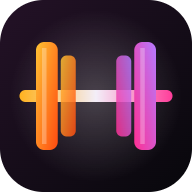
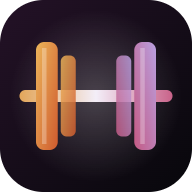
Couleurs plus douces, suppression des phrases d'accroche

Changed region(s): [[0.5938, 0.2188, 0.9062, 0.7812], [0.0938, 0.2188, 0.4062, 0.7812]]

diff --git a/style.css b/style.css
@@ -1,19 +1,19 @@
 :root{
-  --bg:#07070b;--bg2:#12121a;--card:rgba(255,255,255,.055);--card2:rgba(255,255,255,.09);
+  --bg:#08080c;--bg2:#12121a;--card:rgba(255,255,255,.055);--card2:rgba(255,255,255,.09);
   --line:rgba(255,255,255,.1);--tx:#f6f3f8;--mut:#9b97aa;--ok:#35e08a;--danger:#ff4d5e;
-  --a:#ff5b1f;--a2:#ffb21f;--grad:linear-gradient(135deg,var(--a),var(--a2));
+  --a:#d8693a;--a2:#e3a65a;--grad:linear-gradient(135deg,var(--a),var(--a2));
   --disp:"Bahnschrift","Avenir Next Condensed","sans-serif-condensed","Roboto Condensed","Arial Narrow",system-ui,sans-serif;
   --body:system-ui,-apple-system,"Segoe UI",Roboto,sans-serif;
   --sab:env(safe-area-inset-bottom,0px);--sat:env(safe-area-inset-top,0px);
   color-scheme:dark;
 }
-[data-theme=her]{--a:#ff3d9a;--a2:#a46bff}
+[data-theme=her]{--a:#c9638a;--a2:#9d86d0}
 *{box-sizing:border-box;-webkit-tap-highlight-color:transparent}
 html{background:var(--bg)}
 body{margin:0;min-height:100vh;color:var(--tx);font-family:var(--body);font-size:15px;line-height:1.4;
   background:
-    radial-gradient(900px 500px at -10% -8%,color-mix(in srgb,var(--a) 28%,transparent),transparent 60%),
-    radial-gradient(800px 520px at 110% 108%,color-mix(in srgb,var(--a2) 20%,transparent),transparent 60%),
+    radial-gradient(900px 500px at -10% -8%,color-mix(in srgb,var(--a) 17%,transparent),transparent 60%),
+    radial-gradient(800px 520px at 110% 108%,color-mix(in srgb,var(--a2) 11%,transparent),transparent 60%),
     var(--bg);
   background-attachment:fixed;overscroll-behavior-y:none;transition:background .4s}
 body::before{content:"";position:fixed;inset:0;pointer-events:none;opacity:.05;z-index:0;
@@ -45,13 +45,13 @@ nav{position:fixed;left:50%;transform:translateX(-50%);bottom:calc(10px + var(--
   border:1px solid var(--line);border-radius:24px;padding:6px;box-shadow:0 10px 40px rgba(0,0,0,.5)}
 nav button{flex:1;display:flex;flex-direction:column;align-items:center;gap:3px;padding:8px 0 6px;border-radius:18px;color:var(--mut);font-size:10.5px;font-weight:600;letter-spacing:.03em;transition:.2s}
 nav button svg{width:22px;height:22px;stroke:currentColor;fill:none;stroke-width:1.9;stroke-linecap:round;stroke-linejoin:round}
-nav button.on{color:#0a0a0f;background:var(--grad);box-shadow:0 4px 18px color-mix(in srgb,var(--a) 45%,transparent)}
+nav button.on{color:#0a0a0f;background:var(--grad);box-shadow:0 4px 14px color-mix(in srgb,var(--a) 28%,transparent)}
 
 /* cards & buttons */
 .card{background:var(--card);border:1px solid var(--line);border-radius:20px;padding:16px;margin-bottom:12px}
 .btn{display:inline-flex;align-items:center;justify-content:center;gap:8px;padding:12px 18px;border-radius:14px;font-weight:700;background:var(--card2);border:1px solid var(--line);transition:transform .1s}
 .btn:active{transform:scale(.97)}
-.btn.pri{background:var(--grad);color:#0a0a0f;border:0;box-shadow:0 8px 28px color-mix(in srgb,var(--a) 40%,transparent)}
+.btn.pri{background:var(--grad);color:#0a0a0f;border:0;box-shadow:0 6px 20px color-mix(in srgb,var(--a) 28%,transparent)}
 .btn.xl{width:100%;padding:17px;font-size:17px;border-radius:18px;font-family:var(--disp);text-transform:uppercase;font-style:italic;letter-spacing:.04em}
 .btn.sm{padding:8px 12px;font-size:13px;border-radius:11px}
 .btn.dng{color:var(--danger);border-color:color-mix(in srgb,var(--danger) 40%,transparent)}
@@ -71,7 +71,7 @@ nav button.on{color:#0a0a0f;background:var(--grad);box-shadow:0 4px 18px color-m
 /* hero */
 .hero{position:relative;overflow:hidden;border-radius:26px;padding:22px 20px 20px;margin:8px 0 14px;border:1px solid color-mix(in srgb,var(--a) 40%,transparent);
   background:linear-gradient(150deg,color-mix(in srgb,var(--a) 26%,#0d0d14),#0d0d14 70%)}
-.hero::after{content:"";position:absolute;right:-60px;top:-60px;width:220px;height:220px;border-radius:50%;background:var(--grad);opacity:.22;filter:blur(40px)}
+.hero::after{content:"";position:absolute;right:-60px;top:-60px;width:220px;height:220px;border-radius:50%;background:var(--grad);opacity:.14;filter:blur(40px)}
 .hero h1{font-size:46px;line-height:.95;margin:8px 0 12px;position:relative}
 .hero h1 small{display:block;font-size:19px;margin-top:6px}
 .hero .chips{display:flex;gap:8px;flex-wrap:wrap;margin-bottom:18px;position:relative}
@@ -213,11 +213,11 @@ details.g li b,.ex .nt b{color:var(--a2)}
 .pick h1{font-size:64px;line-height:.9}
 .pick p.t{color:var(--mut);margin:10px 0 30px}
 .pcard{display:flex;align-items:center;gap:16px;width:100%;text-align:left;padding:20px;margin-bottom:14px;border-radius:26px;border:1px solid transparent;position:relative;overflow:hidden}
-.pcard.him{background:linear-gradient(135deg,rgba(255,91,31,.3),rgba(255,178,31,.08));border-color:rgba(255,120,40,.5)}
-.pcard.her{background:linear-gradient(135deg,rgba(255,61,154,.3),rgba(164,107,255,.1));border-color:rgba(255,80,170,.5)}
+.pcard.him{background:linear-gradient(135deg,rgba(216,105,58,.22),rgba(227,166,90,.05));border-color:rgba(216,105,58,.42)}
+.pcard.her{background:linear-gradient(135deg,rgba(201,99,138,.22),rgba(157,134,208,.06));border-color:rgba(201,99,138,.42)}
 .pcard .av{width:64px;height:64px;border-radius:20px;display:grid;place-items:center;font-size:30px;font-family:var(--disp);font-weight:800;font-style:italic;color:#0a0a0f}
-.pcard.him .av{background:linear-gradient(135deg,#ff5b1f,#ffb21f)}
-.pcard.her .av{background:linear-gradient(135deg,#ff3d9a,#a46bff)}
+.pcard.him .av{background:linear-gradient(135deg,#d8693a,#e3a65a)}
+.pcard.her .av{background:linear-gradient(135deg,#c9638a,#9d86d0)}
 .pcard h3{font-size:30px;line-height:1}
 .pcard p{color:#cfc9dc;font-size:13px;margin-top:3px}
 
@@ -230,16 +230,16 @@ details.g li b,.ex .nt b{color:var(--a2)}
 
 /* splash d'ouverture */
 #splash{position:fixed;inset:0;z-index:100;display:flex;flex-direction:column;align-items:center;justify-content:center;gap:18px;
-  background:radial-gradient(600px 400px at 50% 45%,#2a1530,#07070b 70%);transition:opacity .5s,transform .5s,visibility .5s}
+  background:radial-gradient(600px 400px at 50% 45%,#221626,#08080c 70%);transition:opacity .5s,transform .5s,visibility .5s}
 #splash.out{opacity:0;transform:scale(1.12);visibility:hidden}
-#splash svg{overflow:visible;filter:drop-shadow(0 0 28px rgba(255,110,60,.45));animation:spglow 1s .9s both}
+#splash svg{overflow:visible;filter:drop-shadow(0 0 24px rgba(216,105,58,.3));animation:spglow 1s .9s both}
 .sp-bar{transform-origin:50% 50%;transform-box:fill-box;animation:spbar .5s .05s both cubic-bezier(.2,.9,.3,1)}
 .sp-l{animation:spl .75s .2s both cubic-bezier(.2,1.2,.3,1)}
 .sp-r{animation:spr .75s .2s both cubic-bezier(.2,1.2,.3,1)}
 @keyframes spbar{from{transform:scaleX(0)}}
 @keyframes spl{from{transform:translateX(-320px);opacity:0}}
 @keyframes spr{from{transform:translateX(320px);opacity:0}}
-@keyframes spglow{40%{transform:scale(1.07);filter:drop-shadow(0 0 50px rgba(255,90,160,.8))}}
+@keyframes spglow{40%{transform:scale(1.07);filter:drop-shadow(0 0 40px rgba(201,99,138,.5))}}
 .sp-word{font-size:58px;line-height:1;display:flex;gap:4px}
 .sp-word span{padding-right:.1em;background:var(--grad);-webkit-background-clip:text;background-clip:text;color:transparent;animation:spw .5s both cubic-bezier(.2,1.3,.4,1)}
 .sp-word span:nth-child(1){animation-delay:.7s}.sp-word span:nth-child(2){animation-delay:.76s}.sp-word span:nth-child(3){animation-delay:.82s}

diff --git a/app.js b/app.js
@@ -119,7 +119,7 @@
   function pickerView() {
     const c = (k, sub) => `<button class="pcard ${k}" data-act="pick" data-k="${k}"><div class="av">${esc((S.profiles[k].name || '?')[0].toUpperCase())}</div><div><h3 class="disp">${esc(S.profiles[k].name)}</h3><p>${sub}</p></div></button>`;
     return `<div class="pick"><img class="big-logo" src="icons/icon.svg" alt=""><h1 class="disp grad-t">Tandem</h1>
-      <p class="t">Deux profils. Une salle. Zéro excuse.</p>
+      <p class="t"></p>
       ${c('him', 'Haut / Bas · force & sèche')}${c('her', 'Fessiers · tonus & ventre')}</div>`;
   }
 
@@ -149,7 +149,7 @@
         <button class="btn pri xl" data-act="start" data-id="${prog.id}">${doneToday ? 'Refaire la séance' : 'Lancer la séance'}</button></section>`;
     } else {
       hero = `<section class="hero rest"><div class="eyebrow">Aujourd'hui · ${DAYS[di]}</div>
-        <h1 class="disp">${esc(day.l || 'Repos')}<small class="grad-t">Récupère, c'est là que tu progresses</small></h1>
+        <h1 class="disp">${esc(day.l || 'Repos')}</h1>
         <div class="chips">${p.programs.map(q => `<button class="chip acc" data-act="openProg" data-id="${q.id}">${esc(q.name)}</button>`).join('')}</div>
         <p class="mut" style="font-size:13px">Envie de t'entraîner quand même ? Choisis une séance.</p></section>`;
     }
@@ -163,7 +163,7 @@
         <div class="stat"><b class="grad-t">${p.logs.length}</b><span>séances</span></div>
         <div class="stat"><b class="grad-t">${recs}</b><span>exos suivis</span></div>
       </div>
-      ${last ? `<div class="card row sp"><div><div class="eyebrow">Dernière séance</div><b>${esc(last.name)}</b> <span class="mut">· ${fdate(last.date)}</span></div><span class="chip">${last.dur} min</span></div>` : `<div class="card empty">Ta 1re séance t'attend. Lance-toi 💥</div>`}`;
+      ${last ? `<div class="card row sp"><div><div class="eyebrow">Dernière séance</div><b>${esc(last.name)}</b> <span class="mut">· ${fdate(last.date)}</span></div><span class="chip">${last.dur} min</span></div>` : `<div class="card empty">Aucune séance enregistrée pour le moment.</div>`}`;
   }
 
   /* ----- Séances ----- */

diff --git a/index.html b/index.html
@@ -18,16 +18,15 @@
 <div id="splash" aria-hidden="true">
   <svg viewBox="0 0 512 300" width="260" height="152">
     <defs>
-      <linearGradient id="sp-e" x1="0" y1="0" x2="1" y2="1"><stop offset="0" stop-color="#ffc233"/><stop offset="1" stop-color="#ff4a10"/></linearGradient>
-      <linearGradient id="sp-o" x1="1" y1="0" x2="0" y2="1"><stop offset="0" stop-color="#b57bff"/><stop offset="1" stop-color="#ff2f93"/></linearGradient>
-      <linearGradient id="sp-b" x1="0" y1="0" x2="1" y2="0"><stop offset="0" stop-color="#ffb21f"/><stop offset=".5" stop-color="#f3eef8"/><stop offset="1" stop-color="#ff3d9a"/></linearGradient>
+      <linearGradient id="sp-e" x1="0" y1="0" x2="1" y2="1"><stop offset="0" stop-color="#ecb55a"/><stop offset="1" stop-color="#cf5a2e"/></linearGradient>
+      <linearGradient id="sp-o" x1="1" y1="0" x2="0" y2="1"><stop offset="0" stop-color="#b9a0e0"/><stop offset="1" stop-color="#c45a84"/></linearGradient>
+      <linearGradient id="sp-b" x1="0" y1="0" x2="1" y2="0"><stop offset="0" stop-color="#e3a65a"/><stop offset=".5" stop-color="#f3eef8"/><stop offset="1" stop-color="#c9638a"/></linearGradient>
     </defs>
     <rect class="sp-bar" x="52" y="134" width="408" height="32" rx="16" fill="url(#sp-b)"/>
     <g class="sp-l"><rect x="96" y="6" width="58" height="288" rx="22" fill="url(#sp-e)"/><rect x="162" y="42" width="40" height="216" rx="16" fill="url(#sp-e)" opacity=".85"/></g>
     <g class="sp-r"><rect x="358" y="6" width="58" height="288" rx="22" fill="url(#sp-o)"/><rect x="310" y="42" width="40" height="216" rx="16" fill="url(#sp-o)" opacity=".85"/></g>
   </svg>
   <div class="sp-word disp"><span>T</span><span>A</span><span>N</span><span>D</span><span>E</span><span>M</span></div>
-  <div class="sp-tag">Deux profils. Une salle.</div>
 </div>
 <div id="banner" hidden><span>✨ Nouvelle version disponible</span><button id="reload">Actualiser</button></div>
 <div id="app"></div>

diff --git a/sw.js b/sw.js
@@ -1,4 +1,4 @@
-const V = 'tandem-v3'; // changer à chaque mise à jour pour déclencher le bandeau « Actualiser »
+const V = 'tandem-v4'; // changer à chaque mise à jour pour déclencher le bandeau « Actualiser »
 const FILES = ['./', 'index.html', 'style.css', 'app.js', 'data.js', 'manifest.webmanifest',
   'icons/icon.svg', 'icons/icon-192.png', 'icons/icon-512.png', 'icons/icon-180.png', 'icons/maskable-512.png'];
 self.addEventListener('install', e => {
